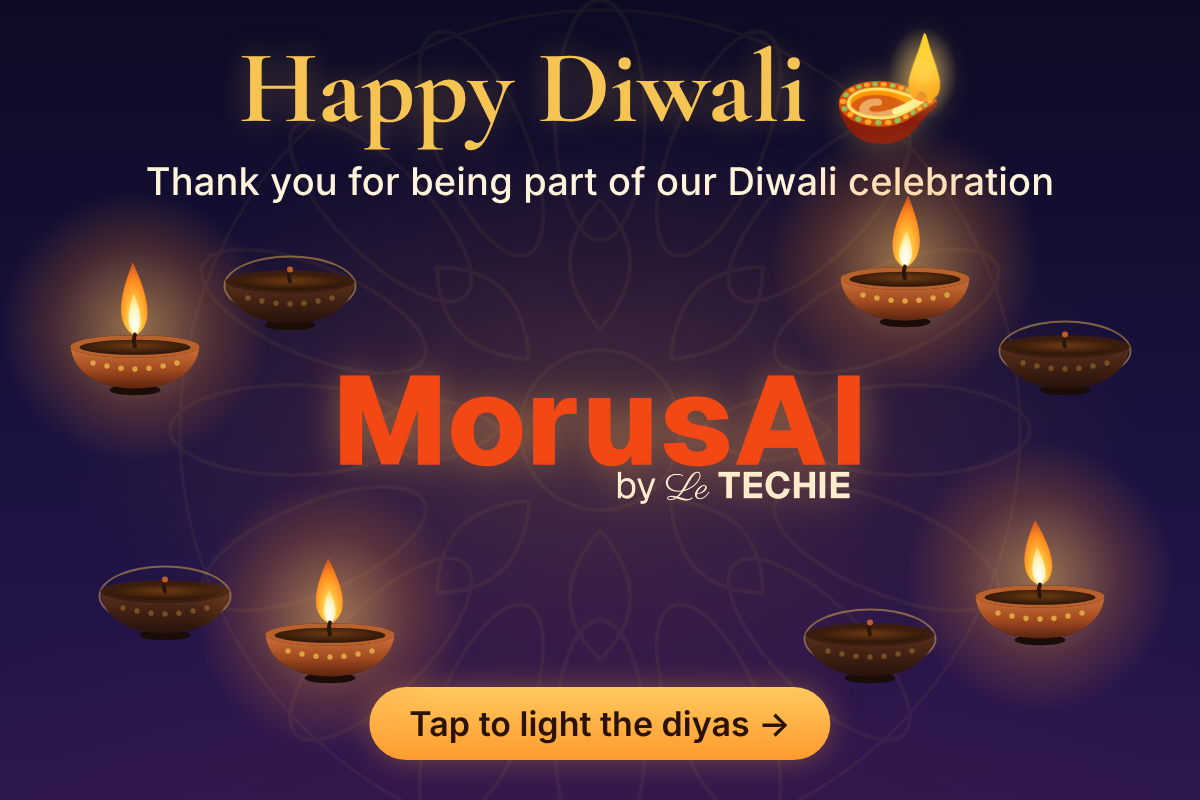
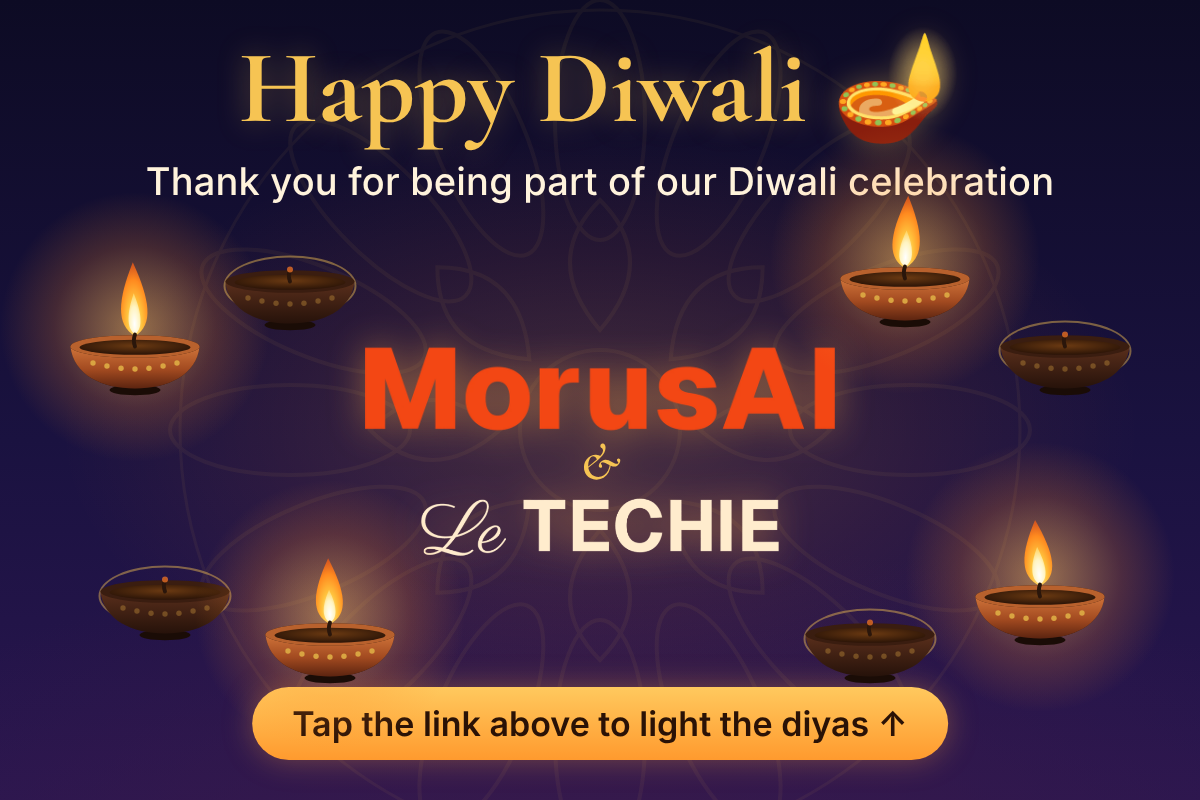
Add files via upload

Changed region(s): [[0.2775, 0.4062, 0.74, 0.7188], [0.185, 0.8438, 0.8017, 0.9688]]

diff --git a/index.html b/index.html
@@ -80,26 +80,29 @@ h1{font-family:var(--serif);font-weight:600;font-size:clamp(2.2rem,9vw,3.6rem);l
 .stage{position:relative;width:100%;
   height:clamp(430px, calc(100svh - 215px), 640px);
   margin-top:6px}
-.logo{position:absolute;left:50%;top:50%;width:min(66%,300px);height:auto;transform:translate(-50%,-50%);
+.logo{margin:0;position:absolute;left:50%;top:50%;width:min(64%,300px);display:flex;flex-direction:column;align-items:center;transform:translate(-50%,-50%);
   user-select:none;-webkit-user-drag:none;pointer-events:none;
   opacity:calc(.22 + .78*var(--p));
   filter:drop-shadow(0 0 calc(2px + 22px*var(--p)) rgba(255,170,70,calc(.1 + .7*var(--p)))) saturate(calc(.55 + .45*var(--p)));
   transition:opacity 1.4s ease, filter 1.4s ease}
+.logo img{display:block;width:100%;height:auto;-webkit-user-drag:none}
+.logo .lt{width:76%}
+.logo .amp{font-family:var(--serif);font-style:italic;font-weight:600;color:var(--gold);font-size:clamp(1.5rem,6.5vw,2.4rem);line-height:1;margin:.12em 0 .18em}
 .logo.celebrate{animation:logoPulse 2.4s ease-in-out 1}
 @keyframes logoPulse{0%,100%{transform:translate(-50%,-50%) scale(1)}40%{transform:translate(-50%,-50%) scale(1.06)}}
 
 /* diya spots: mobile positions (portrait) */
 .spot{position:absolute;left:var(--x);top:var(--y);width:var(--diya);height:var(--diya);transform:translate(-50%,-50%)}
-.spot:nth-of-type(1){--x:15%;--y:25%} .spot:nth-of-type(2){--x:41%;--y:16%}
-.spot:nth-of-type(3){--x:66%;--y:31%} .spot:nth-of-type(4){--x:86%;--y:19%}
-.spot:nth-of-type(5){--x:85%;--y:70%} .spot:nth-of-type(6){--x:62%;--y:85%}
-.spot:nth-of-type(7){--x:36%;--y:69%} .spot:nth-of-type(8){--x:13%;--y:81%}
+.spot:nth-of-type(1){--x:15%;--y:23%} .spot:nth-of-type(2){--x:41%;--y:14%}
+.spot:nth-of-type(3){--x:66%;--y:27%} .spot:nth-of-type(4){--x:86%;--y:16%}
+.spot:nth-of-type(5){--x:85%;--y:74%} .spot:nth-of-type(6){--x:62%;--y:87%}
+.spot:nth-of-type(7){--x:36%;--y:73%} .spot:nth-of-type(8){--x:13%;--y:81%}
 @media (min-width:700px) and (min-aspect-ratio:1/1){
   :root{--diya:clamp(84px,9vw,118px)}
   .stage{height:clamp(420px, calc(100svh - 230px), 680px)}
-  .logo{width:min(40%,460px)}
+  .logo{width:min(38%,440px)}
   .spot:nth-of-type(1){--x:10%;--y:46%}  .spot:nth-of-type(2){--x:24%;--y:22%}
-  .spot:nth-of-type(3){--x:49%;--y:19%} .spot:nth-of-type(4){--x:75%;--y:25%}
+  .spot:nth-of-type(3){--x:49%;--y:17%} .spot:nth-of-type(4){--x:75%;--y:25%}
   .spot:nth-of-type(5){--x:91%;--y:48%} .spot:nth-of-type(6){--x:79%;--y:81%}
   .spot:nth-of-type(7){--x:52%;--y:87%} .spot:nth-of-type(8){--x:20%;--y:78%}
 }
@@ -247,7 +250,7 @@ footer a:hover,footer a:focus-visible{color:var(--gold)}
   </header>
 
   <div class="stage" id="stage">
-    <img class="logo" id="logo" src="logo.png" alt="Morus AI by Le Techie" width="1000" height="249">
+    <figure class="logo" id="logo" role="img" aria-label="Morus AI and Le Techie"><img src="morusai.png" alt="" width="1000" height="176"><span class="amp" aria-hidden="true">&amp;</span><img class="lt" src="letechie.png" alt="" width="677" height="110"></figure>
     <!-- spots injected by JS -->
   </div>
 

diff --git a/email-preview.html b/email-preview.html
@@ -16,8 +16,10 @@ html,body{margin:0;padding:0;background:#0d0b24}
 h1{position:absolute;top:36px;left:0;right:0;margin:0;text-align:center;font-family:"Cormorant Garamond",Georgia,serif;font-weight:700;
   font-size:104px;line-height:1;color:#f6c453;text-shadow:0 0 30px rgba(246,196,83,.35)}
 .sub{position:absolute;top:158px;left:0;right:0;margin:0;text-align:center;font-size:38px;font-weight:500;color:#fff3dc;letter-spacing:.005em}
-.logo{position:absolute;left:600px;top:440px;width:520px;transform:translate(-50%,-50%);
+.logo{position:absolute;left:600px;top:452px;width:470px;transform:translate(-50%,-50%);display:flex;flex-direction:column;align-items:center;
   filter:drop-shadow(0 0 18px rgba(255,170,70,.45))}
+.logo img{display:block;width:100%;height:auto}.logo .lt{width:76%}
+.logo .amp{font-family:"Cormorant Garamond",Georgia,serif;font-style:italic;font-weight:600;color:#f6c453;font-size:52px;line-height:1;margin:6px 0 10px}
 .cta{position:absolute;bottom:40px;left:50%;transform:translateX(-50%);white-space:nowrap;font-size:34px;font-weight:600;color:#2a1206;
   padding:16px 40px;border-radius:999px;background:linear-gradient(180deg,#ffc95e,#ff9a2e);box-shadow:0 0 30px rgba(255,160,60,.35)}
 .spot{position:absolute;width:150px;height:150px;transform:translate(-50%,-50%)}
@@ -46,8 +48,8 @@ h1{position:absolute;top:36px;left:0;right:0;margin:0;text-align:center;font-fam
   <svg class="rangoli" viewBox="-100 -100 200 200" id="rangoli"></svg>
   <h1>Happy Diwali 🪔</h1>
   <p class="sub">Thank you for being part of our Diwali celebration</p>
-  <img class="logo" src="logo.png" alt="">
-  <div class="cta">Tap to light the diyas →</div>
+  <div class="logo"><img src="morusai.png" alt=""><span class="amp">&amp;</span><img class="lt" src="letechie.png" alt=""></div>
+  <div class="cta">Tap the link above to light the diyas ↑</div>
 </div>
 <script>
 // [x, y, lit]
